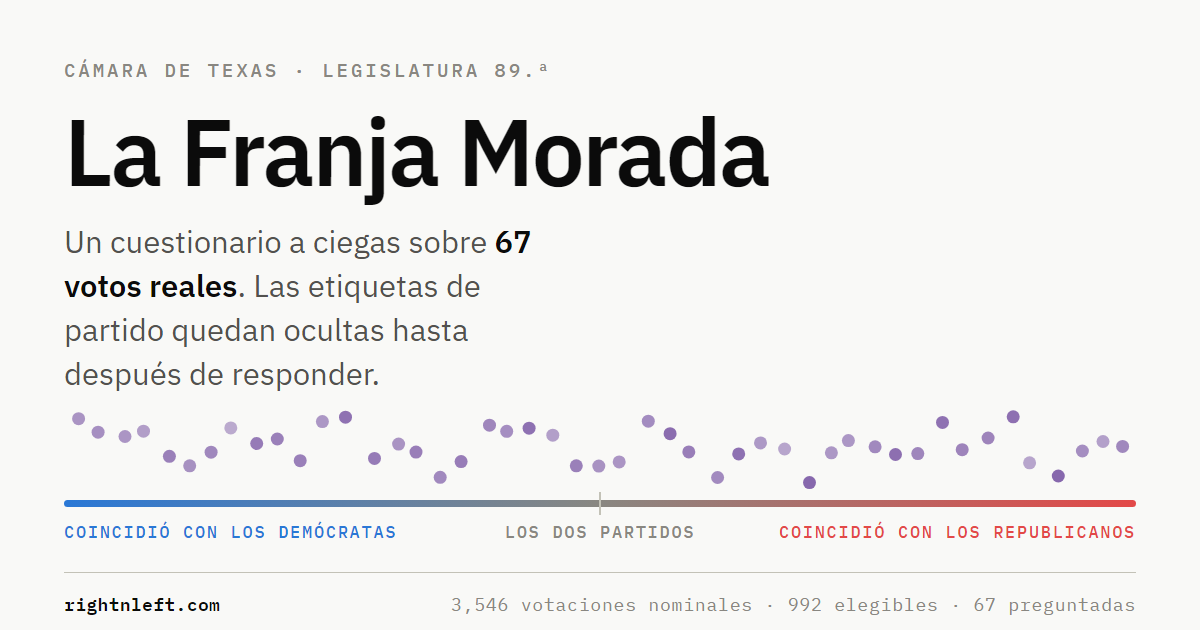
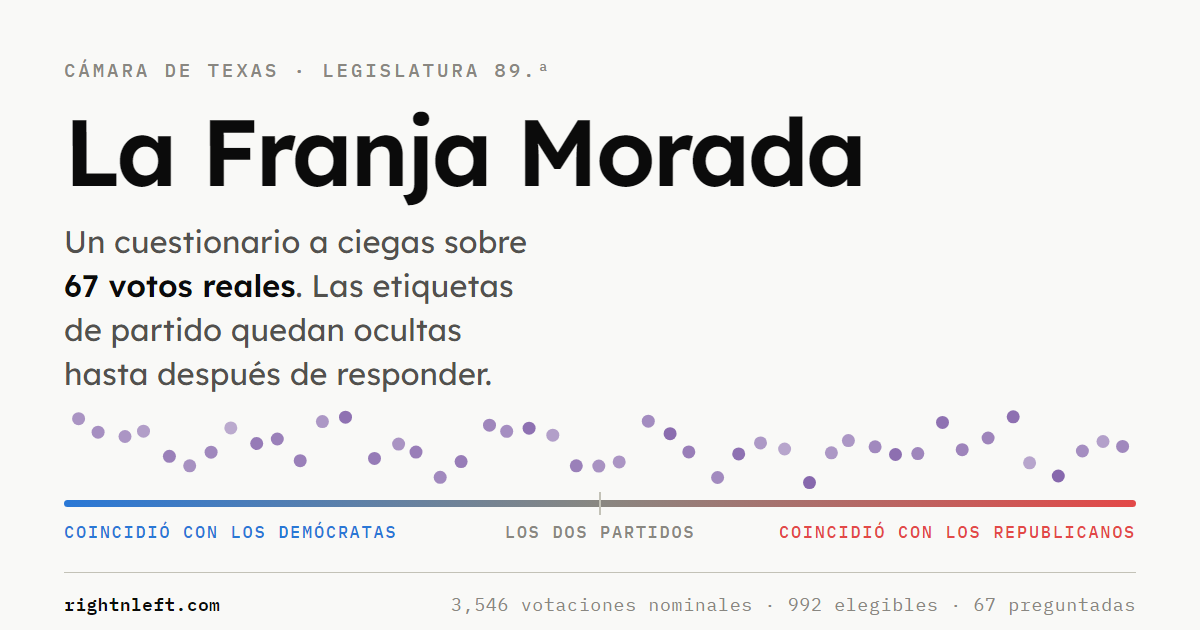
Lexend for the interface, and a way back to the method from any screen
Lexend replaces IBM Plex Sans throughout. It was drawn to reduce reading
fatigue rather than to have a voice, which is the right property for a page
whose reader did not arrive wanting to read. Newsreader still asks the
questions and sets the headings, so the magazine feel survives; IBM Plex Mono
still marks the receipts. The share card follows, and its own font assertion
follows with it — the card is what people see when the link is shared, and it
should not be in a typeface the site no longer uses.

The other half of this is a correction to the redesign. Moving the method
behind the experience is right for a reader who does not follow politics and
wrong for the other audience this page has: a reporter or an editor deciding in
six seconds whether it is a partisan exercise. The rule, the data, the funding
and the author's politics used to be the first screen, which is a strong signal
to a skeptic, and answering seven questions to reach them is not a reasonable
ask of someone evaluating the thing.

So "How this works" now sits in the top bar on every screen except the opening
one, where it would only duplicate the button already under Start. From the
quiz it goes to the built-out method with the disclosure below it, and the
result still offers "Keep answering" so the questions are not abandoned by
looking.

139 verifier checks still pass, and the share cards still assert their fonts
loaded, their labels do not collide and their content fits.

diff --git a/src/main.ts b/src/main.ts
@@ -953,6 +953,47 @@ function showView(): void {
   set('start-view', view === 'start');
   set('quiz-view', view === 'quiz');
   set('result-view', view === 'result');
+  // The start screen already offers this below the button; two of them in one
+  // view is clutter. It earns its place only once that screen is gone.
+  const how = document.querySelector('.topbar-how');
+  if (how) (how as HTMLElement).hidden = view === 'start';
+}
+
+/**
+ * A way to the method from every screen.
+ *
+ * The method used to BE the first screen: the rule, the data, the funding and
+ * the author's politics, before anything else. Moving that behind the quiz is
+ * right for a reader who does not follow politics and wrong for the other
+ * audience this page has — a reporter or an editor deciding in six seconds
+ * whether this is a partisan exercise. They are the reason the disclosure is
+ * written the way it is, and they should not have to answer seven questions to
+ * find it.
+ *
+ * Costs a general reader one quiet word in the corner.
+ */
+function bindNavHow(): void {
+  const host = document.querySelector('.langswitch');
+  if (!host) return;
+  const b = document.createElement('button');
+  b.className = 'ghost topbar-how';
+  b.type = 'button';
+  b.textContent = t('start.how');
+  b.addEventListener('click', () => {
+    if (view === 'start') {
+      // On the opening screen it is the same panel the Start screen offers.
+      document.getElementById('start-how')?.click();
+      document.getElementById('start-how-panel')?.scrollIntoView({ block: 'nearest' });
+      return;
+    }
+    // Anywhere else, go to the built-out version. Answers survive, and the
+    // result offers a way back into the remaining questions.
+    view = 'result';
+    showView();
+    render();
+    document.getElementById('method')?.scrollIntoView({ block: 'start' });
+  });
+  host.appendChild(b);
 }
 
 /** The opening screen: a title, a line, and a button. */
@@ -1425,7 +1466,8 @@ render();
 // Once, at module level. It appends a control to the header, so calling it from
 // render() would add another button on every keystroke.
 renderTheme();
-bindStart();
+bindStart();
+bindNavHow();
 showView();
 
 /**

diff --git a/src/styles.css b/src/styles.css
@@ -103,7 +103,7 @@
   * { box-sizing: border-box; }
   body {
     margin:0; background:var(--page); color:var(--ink);
-    font-family:"IBM Plex Sans", system-ui, -apple-system, "Segoe UI", sans-serif;
+    font-family:"Lexend", system-ui, -apple-system, "Segoe UI", sans-serif;
     font-size:15px; line-height:1.55; -webkit-font-smoothing:antialiased;
   }
   .wrap { max-width:960px; margin:0 auto; padding:28px 22px 80px; display:flex; flex-direction:column; gap:22px; }
@@ -112,7 +112,7 @@
      single screen. That is the typographic signature of a developer tool,
      and it is the thing a reader who does not follow politics reacts to
      before reading a word. Sentence case, in the interface face. */
-  .eyebrow { font-family:"IBM Plex Sans", system-ui, sans-serif; font-size:12px;
+  .eyebrow { font-family:"Lexend", system-ui, sans-serif; font-size:12px;
     font-weight:500; letter-spacing:0; text-transform:none; color:var(--muted); }
   h1 { font-size:26px; font-weight:600; letter-spacing:-0.012em; margin:6px 0 0; text-wrap:balance; }
   .lede { color:var(--ink-2); margin:8px 0 0; max-width:66ch; }
@@ -406,6 +406,7 @@
      person who needs it cannot read the one they are looking at. */
   .topbar { padding-top:14px; }
   .langswitch { margin-bottom:10px; display:flex; gap:8px; align-items:center; }
+  .topbar-how { font-size:12.5px; padding:5px 9px; }
   .themetoggle { font-family:inherit; font-size:12.5px;
     letter-spacing:0; color:var(--muted);
     background:none; border:1px solid var(--hair); border-radius:2px;

diff --git a/scripts/og.template.html b/scripts/og.template.html
@@ -24,7 +24,7 @@
 -->
 <link rel="preconnect" href="https://fonts.googleapis.com">
 <link rel="preconnect" href="https://fonts.gstatic.com" crossorigin>
-<link rel="stylesheet" href="https://fonts.googleapis.com/css2?family=IBM+Plex+Sans:wght@400;500;600&family=IBM+Plex+Mono:wght@400;500;600&display=swap">
+<link rel="stylesheet" href="https://fonts.googleapis.com/css2?family=Lexend:wght@300..700&family=IBM+Plex+Mono:wght@400;500;600&display=swap">
 <style>
   /* Tokens copied from src/styles.css :root — the light palette only. A share
      card has no viewer theme to respond to; it is a fixed image. */
@@ -38,7 +38,7 @@
   html,body { width:1200px; height:630px; }
   body {
     background:var(--page); color:var(--ink);
-    font-family:"IBM Plex Sans", system-ui, sans-serif;
+    font-family:"Lexend", system-ui, sans-serif;
     -webkit-font-smoothing:antialiased;
     display:flex; flex-direction:column;
     padding:58px 64px 46px;

diff --git a/src/index.html b/src/index.html
@@ -8,7 +8,7 @@
   <meta name="color-scheme" content="light dark">
   <link rel="preconnect" href="https://fonts.googleapis.com">
   <link rel="preconnect" href="https://fonts.gstatic.com" crossorigin>
-  <link rel="stylesheet" href="https://fonts.googleapis.com/css2?family=Newsreader:opsz,wght@6..72,400;6..72,500;6..72,600&family=IBM+Plex+Sans:wght@400;500;600&family=IBM+Plex+Mono:wght@400;500&display=swap">
+  <link rel="stylesheet" href="https://fonts.googleapis.com/css2?family=Lexend:wght@300..700&family=Newsreader:opsz,wght@6..72,400;6..72,500;6..72,600&family=IBM+Plex+Mono:wght@400;500&display=swap">
   <link rel="stylesheet" href="./styles.css">
   <meta property="og:title" data-i18n-content="intro.h1" content="The Purple Strip">
   <meta property="og:description" data-i18n-content="page.description" content="How Texas legislators actually voted, and where the state stands because of it.">
